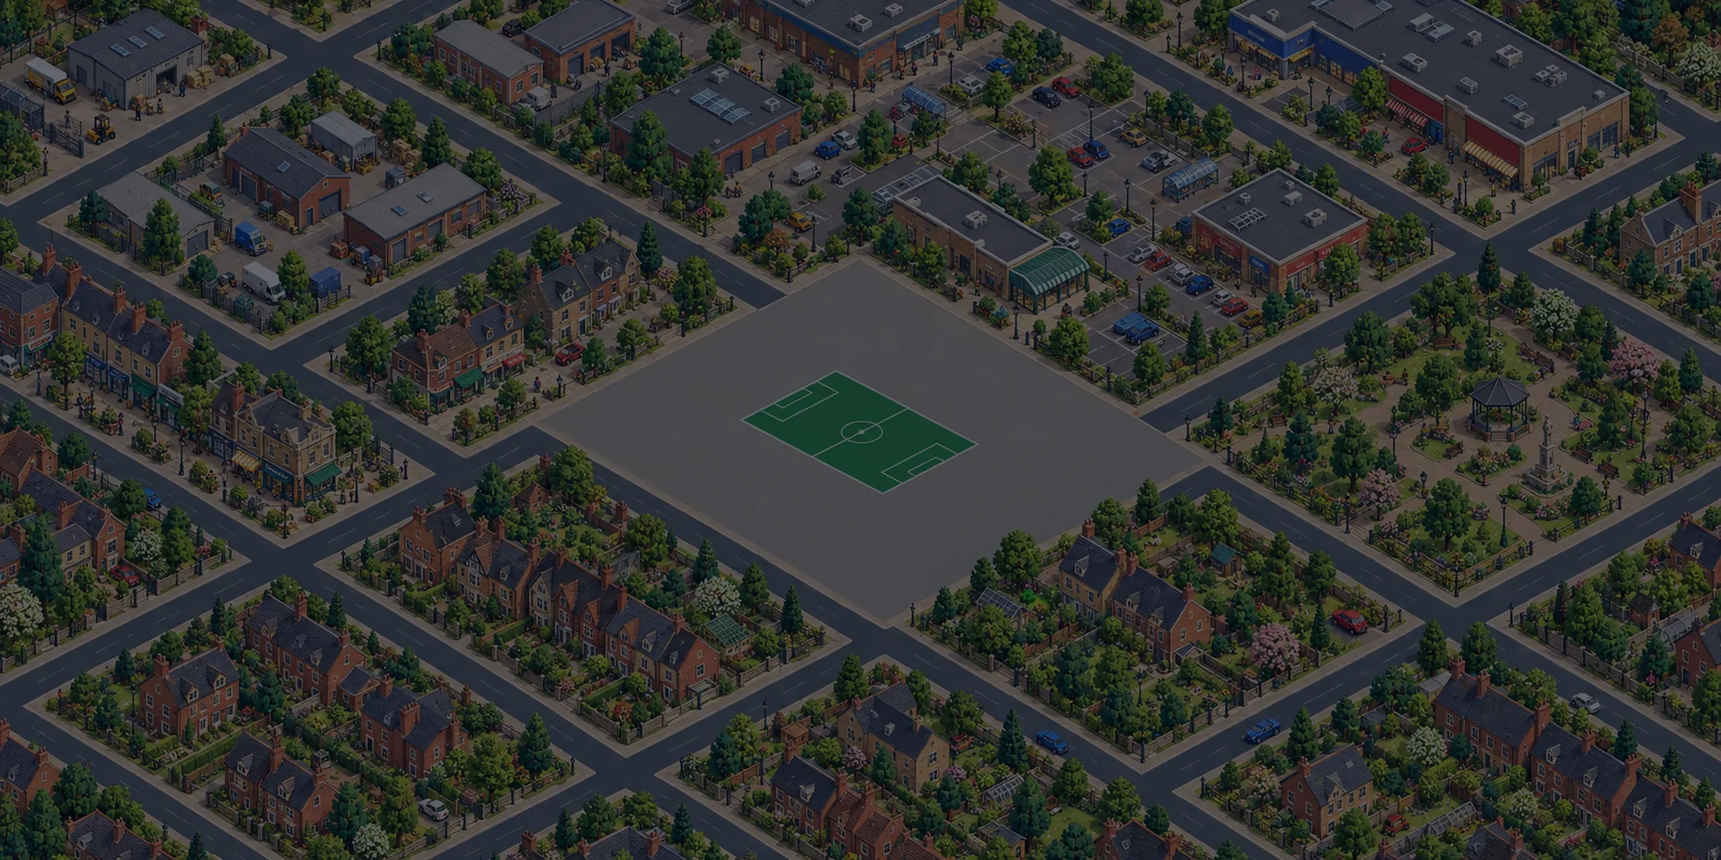
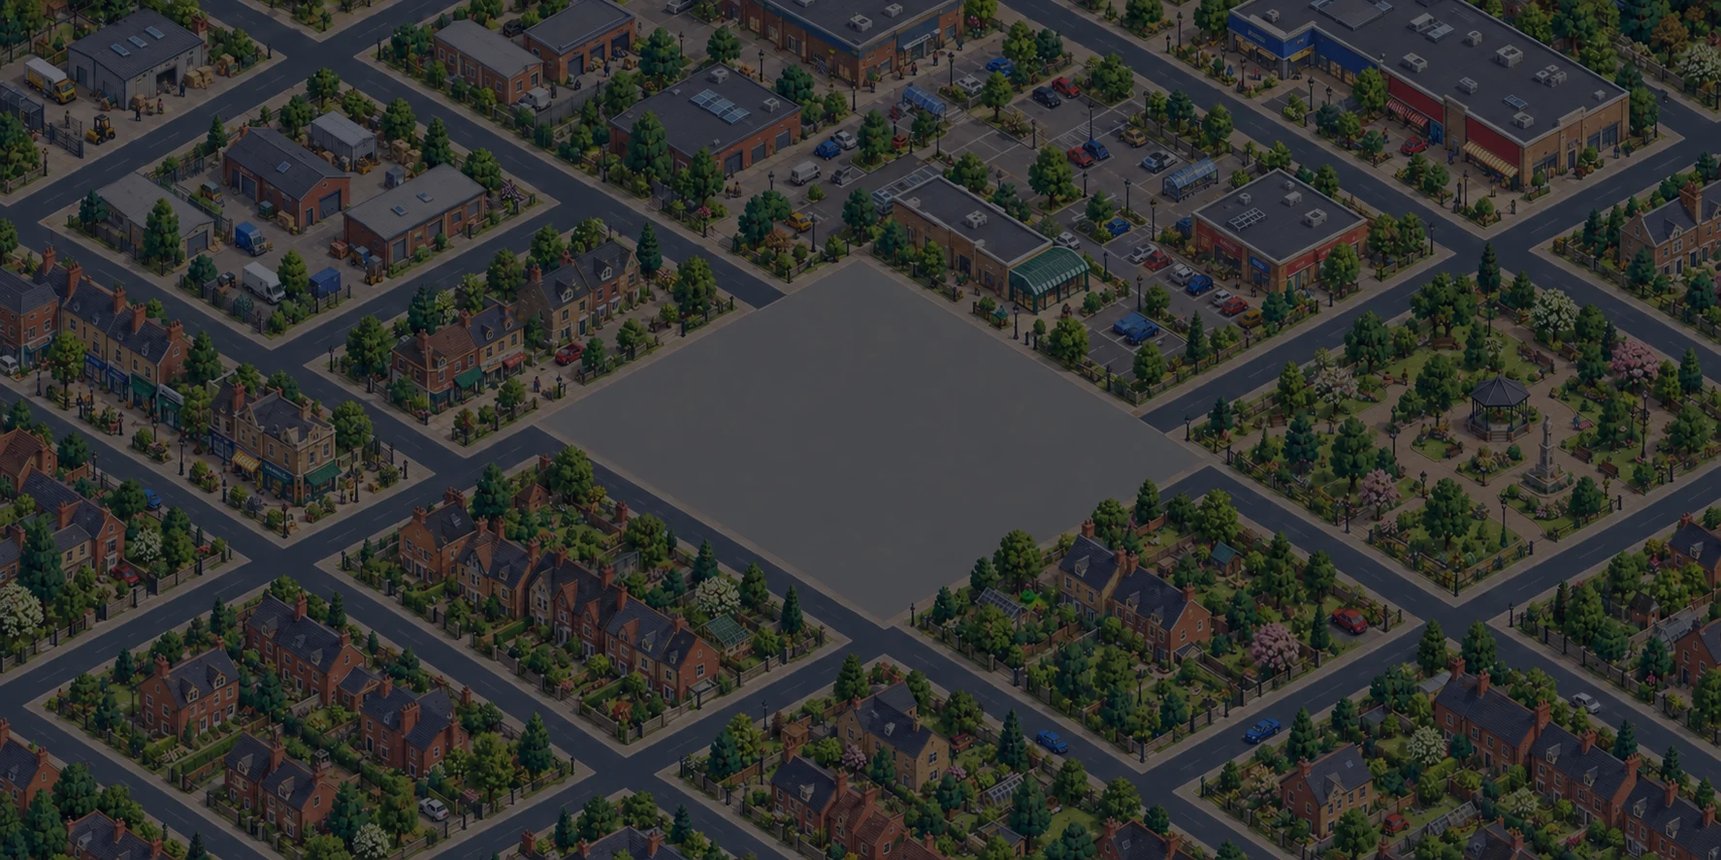
Add files via upload

diff --git a/index.html b/index.html
@@ -173,7 +173,7 @@ body.placement-open #positionPanToggle[aria-pressed=true]{background:#d7e9d6;col
 }
 @media(orientation:landscape) and (max-height:700px){body.designer-overlay .designer{left:auto;right:8px;bottom:8px;width:min(44vw,420px);max-height:calc(100dvh - 57px)}body.designer-overlay .designer-scene-actions{right:auto;width:52vw}}
 .career-card #ticketPrice{width:85px;max-width:100%;padding:8px;border:1px solid #b7d0bd;border-radius:7px}.career-build-preview{margin:4px 0 7px;padding:6px 9px;border:1px solid #d5e7d9;border-radius:8px;background:#e9f2e9;color:#184537;font-size:11px;line-height:1.35}.career-build-preview.warn{background:#f9e9df;color:#8d3528}.finance-spend{color:#f39082;font-weight:800}.finance-offer{color:#8ef0a4;font-weight:800}.career-top small#careerFinanceDelta{display:block}.career-action-hint{box-shadow:inset 0 0 0 2px #edbc54!important;color:#efce82!important}.care-row{display:flex;flex-wrap:wrap;gap:6px;align-items:center}.care-row button{min-height:37px;padding:5px 10px}.event-screen{position:fixed;inset:0;z-index:60;display:grid;place-items:center;padding:calc(10px + env(safe-area-inset-top)) 10px calc(10px + env(safe-area-inset-bottom));background:linear-gradient(#0a292cc7,#09251ddd);backdrop-filter:blur(4px);color:#f5f7ed}.event-screen[hidden]{display:none!important}.event-panel{width:min(850px,100%);max-height:100%;overflow:auto;padding:16px;border:1px solid #b4d5bb90;border-radius:16px;background:#123d38ee;box-shadow:0 15px 55px #081e1cbd}.event-panel h2{margin:3px 0 9px}.event-panel p{line-height:1.4}.event-kicker{letter-spacing:.12em;text-transform:uppercase;font-size:11px;color:#f1c679;font-weight:800}.event-grid{display:grid;grid-template-columns:repeat(2,minmax(0,1fr));gap:9px}.event-panel .event-card,.event-report .event-card{padding:11px;border:1px solid #d5eee069;border-radius:10px;background:#e8f0e7ec;color:#183d34}.event-panel .event-card h3,.event-report .event-card h3{margin:0 0 7px;font-size:15px}.event-panel .event-card p,.event-report .event-card p{margin:5px 0;font-size:12px}.event-panel button{min-height:39px;padding:6px 12px}.event-actions{display:flex;flex-wrap:wrap;gap:8px;margin:12px 0}.event-timeline{list-style:none;padding:0;margin:0;max-height:160px;overflow:auto}.event-timeline li{padding:5px 0;border-bottom:1px solid #b5c9b8;font-size:12px}.event-stock{display:grid;grid-template-columns:repeat(2,minmax(0,1fr));gap:4px 10px;font-size:12px}.event-table{width:100%;border-collapse:collapse;font-size:12px}.event-table th,.event-table td{text-align:left;padding:5px;border-bottom:1px solid #c4d7c9}.event-grade{font-size:30px;font-weight:850;color:#164f3d}.event-pulse{height:7px;border-radius:8px;background:#698f79;overflow:hidden;margin:10px 0}.event-pulse span{display:block;height:100%;background:#e5bb63}.event-muted{font-size:12px;color:#d0e2d5}.event-panel .live-score{background:#0c332f}.event-screen .career-action{background:#e8b85b;color:#143c32}@media(max-width:600px){.event-panel{padding:12px}.event-grid{grid-template-columns:1fr}.event-stock{grid-template-columns:repeat(2,minmax(0,1fr))}}@media(orientation:landscape) and (max-height:700px){.event-panel{width:min(1050px,100%);padding:11px}.event-grid{grid-template-columns:repeat(2,minmax(0,1fr))}.event-timeline{max-height:120px}}.live-score{display:flex;justify-content:space-between;gap:8px;align-items:center;padding:8px 10px;border-radius:9px;background:#183f37;color:#fff;font-weight:800;font-size:17px}.live-score strong{font-size:24px;white-space:nowrap}.live-progress{height:7px;border-radius:8px;background:#bad3bc;overflow:hidden;margin:8px 0}.live-progress span{display:block;height:100%;background:#e9bc71}.event-report{border-left:4px solid #d5ac60}.event-report .career-grid{grid-template-columns:repeat(2,minmax(0,1fr))}
-</style></head><body class="menu-open"><main class="app" inert><header><div class="brand"><small>PROTOTYPE 35.0</small><strong>GROUNDS</strong></div><label class="district-picker" for="districtSelect"><span>Setting</span><select id="districtSelect"><option value="starter-park-edge">Rural Village</option><option value="starter-housing-estate">1970s Town</option><option value="starter-industrial-rail">Railway Works</option><option value="mid-market-town-aligned">British City</option><option value="top-city-redevelopment">Modern Harbour</option></select></label><div class="header-actions"><button id="careerBackButton" hidden>▦ Career</button><button id="homeButton" aria-label="Return to start menu">⌂ Menu</button><button id="nightButton" aria-pressed="false">☾ Night</button><button id="designButton" class="primary" aria-pressed="false">✎ Designer</button></div></header><nav class="toolbar" aria-label="Scene controls"><div class="view-actions"><button id="isoButton" aria-pressed="true">Stadium</button><button id="topButton" aria-pressed="false">Plan</button><button id="settingsButton" aria-label="Display settings" aria-expanded="false">⚙</button></div><div class="zoom"><button id="zoomOut" aria-label="Zoom out">−</button><span id="zoomValue">100%</span><button id="zoomIn" aria-label="Zoom in">+</button><button id="fitButton">Fit</button></div></nav><div class="event-bar" id="eventBar"><label>Scene <select id="eventScene"><option value="regular">Regular</option><option value="pre">Pre-event</option><option value="football">Football</option><option value="concert">Concert · Carly XOX</option></select></label><label id="crowdControl">Crowd <select id="crowdLevel"><option value="small">Small · 25%</option><option value="medium">Medium · 66%</option><option value="sellout">Sellout · 100%</option></select></label><span id="eventStatus">Quiet neighbourhood</span></div><div class="capacity-bar" aria-live="polite"><strong id="capacityTotal"></strong><span id="capacityDetail"></span></div><div class="stage" id="canvasFrame"><div id="careerWeatherBadge" class="career-weather-badge" hidden></div><canvas id="gameCanvas" tabindex="0" aria-label="Stadium view. Enter Designer to edit sections."></canvas><div class="designer-scene-actions"><button id="designerCareer" hidden>▦ Career</button><button id="designerNight">☾ Night</button><button id="designerFit">Fit</button><button id="designerDone">✓ Done</button></div><div id="sceneHint">Drag to look around · Open Designer to shape your ground</div></div>
+</style></head><body class="menu-open"><main class="app" inert><header><div class="brand"><small>PROTOTYPE 35.1</small><strong>GROUNDS</strong></div><label class="district-picker" for="districtSelect"><span>Setting</span><select id="districtSelect"><option value="starter-park-edge">Rural Village</option><option value="starter-housing-estate">1970s Town</option><option value="starter-industrial-rail">Railway Works</option><option value="mid-market-town-aligned">British City</option><option value="top-city-redevelopment">Modern Harbour</option></select></label><div class="header-actions"><button id="careerBackButton" hidden>▦ Career</button><button id="homeButton" aria-label="Return to start menu">⌂ Menu</button><button id="nightButton" aria-pressed="false">☾ Night</button><button id="designButton" class="primary" aria-pressed="false">✎ Designer</button></div></header><nav class="toolbar" aria-label="Scene controls"><div class="view-actions"><button id="isoButton" aria-pressed="true">Stadium</button><button id="topButton" aria-pressed="false">Plan</button><button id="settingsButton" aria-label="Display settings" aria-expanded="false">⚙</button></div><div class="zoom"><button id="zoomOut" aria-label="Zoom out">−</button><span id="zoomValue">100%</span><button id="zoomIn" aria-label="Zoom in">+</button><button id="fitButton">Fit</button></div></nav><div class="event-bar" id="eventBar"><label>Scene <select id="eventScene"><option value="regular">Regular</option><option value="pre">Pre-event</option><option value="football">Football</option><option value="concert">Concert · Carly XOX</option></select></label><label id="crowdControl">Crowd <select id="crowdLevel"><option value="small">Small · 25%</option><option value="medium">Medium · 66%</option><option value="sellout">Sellout · 100%</option></select></label><span id="eventStatus">Quiet neighbourhood</span></div><div class="capacity-bar" aria-live="polite"><strong id="capacityTotal"></strong><span id="capacityDetail"></span></div><div class="stage" id="canvasFrame"><div id="careerWeatherBadge" class="career-weather-badge" hidden></div><canvas id="gameCanvas" tabindex="0" aria-label="Stadium view. Enter Designer to edit sections."></canvas><div class="designer-scene-actions"><button id="designerCareer" hidden>▦ Career</button><button id="designerNight">☾ Night</button><button id="designerFit">Fit</button><button id="designerDone">✓ Done</button></div><div id="sceneHint">Drag to look around · Open Designer to shape your ground</div></div>
 <section class="designer" id="designerPanel" aria-label="Stadium designer" hidden><div class="designer-inner"><div class="mode-tabs" role="group" aria-label="Designer mode"><button data-mode="stands" aria-pressed="true">Stands</button><button data-mode="grounds" aria-pressed="false">Outside</button><button data-mode="boards" aria-pressed="false">Sponsors</button><button data-mode="position" aria-pressed="false">Position</button></div><div id="conflictPanel" class="conflicts" hidden><div id="conflictText"></div><button id="moveConflicts">Move items</button><button id="removeConflicts">Remove conflicting items</button><button id="returnStands">Back to stands</button></div><div class="history-controls"><button id="undoButton">↶ Undo</button><button id="redoButton">↷ Redo</button><button id="rotateStadium">↻ Rotate 90°</button></div><div id="positionControls" hidden><div id="positionStatus" role="status"></div><div class="position-pad"><button id="moveNorth" aria-label="Move north one square">↗</button><button id="moveWest" aria-label="Move west one square">↖</button><button id="moveSouth" aria-label="Move south one square">↙</button><button id="moveEast" aria-label="Move east one square">↘</button></div><div class="position-tools"><button id="positionPanToggle" aria-pressed="false" title="Pan view">✥ Pan</button><button id="positionZoomOut" aria-label="Zoom out">−</button><button id="positionZoomIn" aria-label="Zoom in">+</button><button id="positionFit" title="Centre view">Fit</button><button id="positionRotate" title="Rotate stadium 90 degrees">↻ Rotate</button><button id="placementMenu" hidden title="Return to main menu">⌂</button></div><div class="position-actions"><button id="positionConfirm" class="primary">✓ Confirm</button><button id="positionCancel">✕ Cancel</button></div><div id="positionNotice">Move or rotate the preview, then Confirm. Each step is one grid square.</div></div><div id="standControls"><div id="careerBuildPreview" class="career-build-preview" hidden></div><div class="selection-bar"><strong id="selectionTitle">Tap a stand or corner</strong><span class="selection-hint">Tap again to deselect</span></div><div class="control-grid"><button class="category-up" id="categoryUp" aria-label="Previous category">▲</button><button id="previous" aria-label="Previous option">◀</button><div class="option-readout" aria-live="polite"><span id="categoryLabel">Seating & tiers</span><strong id="optionLabel">Choose a section</strong><span id="optionCount">Preview before confirming</span></div><button id="next" aria-label="Next option">▶</button><button class="category-down" id="categoryDown" aria-label="Next category">▼</button><div class="commit"><button class="primary" id="confirmButton" aria-label="Confirm changes">✓<small>Confirm</small></button><button class="cancel" id="cancelButton" aria-label="Cancel changes">✕<small>Cancel</small></button></div></div><div id="previewState">Left / right: options · Up / down: category</div><details id="sectionDetails"><summary>Select sections by name</summary><div class="selection-tools"><button data-select="N">North</button><button data-select="S">South</button><button data-select="W">West</button><button data-select="E">East</button><button data-select="CORNERS">Corners</button><button data-select="ALL">All</button><button data-select="CLEAR">Clear</button></div><div id="sectionPicker" class="section-grid"></div></details><div class="status-row"><span>Seating → rear building → roof → colours</span><span id="saveStatus">Saved on this device</span></div></div><div id="groundsControls" class="extra-controls" hidden><div class="extra-row"><button id="decorPrevious" aria-label="Previous decoration">◀</button><strong id="decorLabel"></strong><button id="decorNext" aria-label="Next decoration">▶</button></div><div id="decorStatus" class="extra-status" aria-live="polite"></div><div class="extra-row"><button id="decorRotate">Rotate</button><button id="decorMove">Move</button><button id="decorRemove">Remove</button></div><div class="extra-row"><button id="decorConfirm" class="primary">✓ Confirm</button><button id="decorCancel">✕ Cancel</button></div></div><div id="boardControls" class="extra-controls" hidden><div class="extra-row"><button id="boardPrevious" aria-label="Previous sponsor set">◀</button><strong id="boardLabel"></strong><button id="boardNext" aria-label="Next sponsor set">▶</button></div><p class="extra-status">Fictional sponsors · boards leave both goals clear</p><div class="extra-row"><button id="boardConfirm" class="primary">✓ Confirm</button><button id="boardCancel">✕ Cancel</button></div></div></div></section></main>
 <aside class="settings" id="settingsPanel" hidden><h2>Display & design</h2><label><input type="checkbox" id="waterMotion">Gentle water motion</label><label><input type="checkbox" id="ambient">Town activity</label><label><input type="checkbox" id="flyovers">Occasional flyovers</label><label><input type="checkbox" id="eventMotion">Event animation</label><label><input type="checkbox" id="lowAngle">Flatter 3:1 camera</label><label><input type="checkbox" id="showLabels">Section labels</label><label><input type="checkbox" id="showGrid">Site grid</label><label><input type="checkbox" id="showEnvironment" checked>Town backdrop</label><p>Changes save after ✓ Confirm. Display options do not change your stadium.</p><div class="row"><button id="saveButton">Save now</button><button id="resetButton">Reset ground</button><button id="closeSettings">Close</button></div></aside><div id="toast" class="toast" role="status" hidden></div><div id="startMenu" class="start-menu" role="dialog" aria-modal="true" aria-labelledby="menuTitle">
   <div class="menu-shade"></div><div class="menu-vignette"></div>
@@ -327,24 +327,25 @@ body.placement-open #positionPanToggle[aria-pressed=true]{background:#d7e9d6;col
   const ui={zoomValue:$("zoomValue"),saveStatus:$("saveStatus")};
   const categories=["stand","rear","roof","coverage","seats","exterior"];
   const categoryNames={stand:"Seating & tiers",rear:"Rear building",roof:"Roof structure",coverage:"Roof coverage",seats:"Seat colour",exterior:"Exterior finish"};
-  // v35 sites share one explicit isometric road graph. Art is registered at
-  // 1774×887; the pitch and all routes use the same centred projection.
+  // Each illustration has its own verified asphalt route in image pixels.
+  // The generated street layouts differ, so a tier-wide grid can cross plots.
   const STORAGE_SITE_ORIGIN=[887,443];
-  const GRID_PIXEL=(x,y)=>[887+(x-y)*3.8,443+(x+y)*1.9];
   const REGISTRATION={width:1774,height:887,origin:STORAGE_SITE_ORIGIN,tile:[6,3],worldAnchor:[36,30]};
   const SITE_SPECS={
     low:{site:{minX:15,maxX:57,minY:14,maxY:46},people:18},
     mid:{site:{minX:6,maxX:66,minY:6,maxY:54},people:26},
     top:{site:{minX:-2,maxX:74,minY:0,maxY:60},people:34}
   };
-  const SIDE_EDGES={
-    low:[ [[-35,-28],[35,-28]],[[35,-28],[35,28]],[[35,28],[-35,28]],[[-35,28],[-35,-28]] ],
-    mid:[ [[-64,-51],[64,-51]],[[64,-51],[64,51]],[[64,51],[-64,51]],[[-64,51],[-64,-51]] ],
-    top:[ [[-64,-51],[64,-51]],[[64,-51],[64,51]],[[64,51],[-64,51]] ]
+  const SITE_ROUTES={
+    'starter-park-edge':{side:1,edges:[[[634,439],[854,549]]]},
+    'starter-housing-estate':{side:1,edges:[[[662,459],[902,579]]]},
+    'starter-industrial-rail':{side:1,edges:[[[702,464],[922,574]]]},
+    'mid-market-town-aligned':{side:1,edges:[[[919,668],[1154,785]]]},
+    'top-city-redevelopment':{side:-1,edges:[[[828,247],[1068,367]]]}
   };
-  function makeRouteGraph(tier){
+  function makeRouteGraph(id){
     const nodes=new Map(),edges=[];
-    const raw=SIDE_EDGES[tier],endpoints=raw.flatMap(([a,b])=>[a,b]);
+    const raw=SITE_ROUTES[id].edges,endpoints=raw.flatMap(([a,b])=>[a,b]);
     const split=[];
     for(const [a,b] of raw){
       const hits=endpoints.filter(p=>(b[0]-a[0])*(p[1]-a[1])===(b[1]-a[1])*(p[0]-a[0])&&
@@ -355,20 +356,20 @@ body.placement-open #positionPanToggle[aria-pressed=true]{background:#d7e9d6;col
     }
     for(const [a,b] of split){
       const ak=a.join(','),bk=b.join(',');
-      if(!nodes.has(ak))nodes.set(ak,{id:ak,world:a,point:GRID_PIXEL(...a),links:[]});
-      if(!nodes.has(bk))nodes.set(bk,{id:bk,world:b,point:GRID_PIXEL(...b),links:[]});
+      if(!nodes.has(ak))nodes.set(ak,{id:ak,point:a,links:[]});
+      if(!nodes.has(bk))nodes.set(bk,{id:bk,point:b,links:[]});
       const edge={id:edges.length,a:ak,b:bk};edges.push(edge);
       nodes.get(ak).links.push(edge.id);nodes.get(bk).links.push(edge.id);
     }
     return {nodes,edges};
   }
-  const ROUTE_GRAPHS=Object.fromEntries(['low','mid','top'].map(t=>[t,makeRouteGraph(t)]));
+  const ROUTE_GRAPHS=Object.fromEntries(Object.keys(SITE_ROUTES).map(id=>[id,makeRouteGraph(id)]));
   function newSite(id,name,tier){
     const spec=SITE_SPECS[tier];
     return {id,name,tier,registration:REGISTRATION,site:spec.site,
       placement:{...spec.site,accessRows:[spec.site.minY,spec.site.maxY-2]},
       art:{day:`assets/career-sites/${id}-day.webp`,night:`assets/career-sites/${id}-night.webp`},
-      graph:ROUTE_GRAPHS[tier],traffic:{junctionWait:.6},pedestrianSpeed:.52,
+      graph:ROUTE_GRAPHS[id],traffic:{junctionWait:.6},pedestrianSpeed:.52,
       walkers:Array.from({length:spec.people},(_,i)=>({phase:(i*.61803398875+.13)%1,speedFactor:.85+(i%7)*.05})),
       parking:{kind:'authored-bays',cars:[],coaches:[],carDirection:[0,-1],coachDirection:[0,-1]},
       pubGroup:[],hospitality:{a:[280,341],b:[360,301],count:16},
@@ -1704,15 +1705,13 @@ function drawSteppedAisle(section,u,spec){
   let ambientTime=0,flyoverTime=0,lastAnimationTime=null,animationRequest=0;
   function imageWorld(p){const r=DISTRICT.registration,a=(p[0]-r.origin[0])/r.tile[0],b=(p[1]-r.origin[1])/r.tile[1];return{x:r.worldAnchor[0]+(a+b)/2,y:r.worldAnchor[1]+(b-a)/2,z:0};}
   function worldDistance(a,b){return Math.hypot(b.x-a.x,b.y-a.y);}
-  // v35 graph movement: actors are always on a declared road edge. Pedestrians
-  // follow that same edge with a pavement offset. At nodes they choose a linked
-  // edge; no arbitrary point-to-point shortcuts cross plots or harbour water.
+  // Actors stay on the active illustration's authored route and adjacent pavement.
   function graphActor(index,pedestrian=false){
     const g=DISTRICT.graph,edges=g.edges;
     const edge=edges[(index*3+(pedestrian?1:0))%edges.length];
     return {id:(pedestrian?'walker-':'vehicle-')+index,edge:edge.id,
       from:index%2?edge.b:edge.a,to:index%2?edge.a:edge.b,
-      progress:(index*.173)%1,side:index%2?1:-1,
+      progress:(index*.173)%1,side:pedestrian?SITE_ROUTES[DISTRICT.id].side:(index%2?1:-1),
       speed:pedestrian?12+(index%4)*2:66+(index%3)*7,
       kind:pedestrian?'person':index===3&&DISTRICT.tier!=='low'?'bus':'car',
       colour:pedestrian?['#de7155','#507fae','#996ca9','#d2a351','#65a091'][index%5]:['#4e98cf','#e9bd53','#d37d60','#397eb0'][index%4],
@@ -1746,9 +1745,11 @@ function drawSteppedAisle(section,u,spec){
   function graphPose(actor){
     const g=DISTRICT.graph,a=g.nodes.get(actor.from).point,b=g.nodes.get(actor.to).point;
     const dx=b[0]-a[0],dy=b[1]-a[1],length=Math.hypot(dx,dy)||1;
+    const edge=g.edges[actor.edge],canonical=g.nodes.get(edge.a).point,next=g.nodes.get(edge.b).point;
+    const ox=next[0]-canonical[0],oy=next[1]-canonical[1],ol=Math.hypot(ox,oy)||1;
     const offset=actor.pedestrian?actor.side*16.5:actor.side*5;
-    const pixel=[a[0]+dx*actor.progress-dy/length*offset,
-      a[1]+dy*actor.progress+dx/length*offset];
+    const pixel=[a[0]+dx*actor.progress-oy/ol*offset,
+      a[1]+dy*actor.progress+ox/ol*offset];
     const world=imageWorld(pixel),ahead=imageWorld([pixel[0]+dx/length*3,pixel[1]+dy/length*3]);
     const magnitude=worldDistance(world,ahead)||1;
     return {...world,dx:(ahead.x-world.x)/magnitude,dy:(ahead.y-world.y)/magnitude,
@@ -1963,8 +1964,9 @@ function drawSteppedAisle(section,u,spec){
     if(activeScene()!=='pre')return [];
     const g=DISTRICT.graph,e=g.edges[0],a=g.nodes.get(e.a).point,b=g.nodes.get(e.b).point,n=DISTRICT.hospitality.count;
     const dx=b[0]-a[0],dy=b[1]-a[1],length=Math.hypot(dx,dy)||1;
+    const side=SITE_ROUTES[DISTRICT.id].side;
     return Array.from({length:n},(_,i)=>{const f=(i+.3+hashNumber(i+88)*.4)/n;
-      return {...imageWorld([a[0]+dx*f-dy/length*16.5,a[1]+dy*f+dx/length*16.5]),kind:'person',layer:'back',colour:['#b86d56','#517baa','#d6b558','#769664'][i%4],phase:0,moving:false};});
+      return {...imageWorld([a[0]+dx*f-dy/length*16.5*side,a[1]+dy*f+dx/length*16.5*side]),kind:'person',layer:'back',colour:['#b86d56','#517baa','#d6b558','#769664'][i%4],phase:0,moving:false};});
   }
   function eventPersonPose(o,t){
     const length=Math.hypot(o.end.x-o.x,o.end.y-o.y);if(length<.01)return {...o,phase:0,moving:false};

diff --git a/sw.js b/sw.js
@@ -1,4 +1,4 @@
-const CACHE='grounds-pwa-v35-0';
+const CACHE='grounds-pwa-v35-1';
 const CORE=['./','./index.html','./manifest.webmanifest','./icon-192.png','./icon-512.png','./icon-maskable-512.png'];
 self.addEventListener('install',event=>{
   event.waitUntil(caches.open(CACHE).then(cache=>cache.addAll(CORE)).then(()=>self.skipWaiting()));

diff --git a/README.md b/README.md
@@ -1,17 +1,9 @@
-# GROUNDS v35.0 — Five grid locations
+# GROUNDS v35.1 — Map and route correction
 
-Upload the ZIP contents to the root of `zanderiii88/grounds`, retaining the `assets/career-sites/` paths. The `archive/` folder is a local copy of v34.9's old site and movement source and is not needed by the running page.
+Upload the ZIP contents to the root of `zanderiii88/grounds`, retaining the `assets/career-sites/` paths. Replace existing files with matching names. The old files left on GitHub are not referenced by this build; you do not need to delete them.
 
-## Sites
+The five active sites are Rural Village, 1970s Town, Railway Works, British City and Modern Harbour. Their day and night artwork has an empty central placement plot, with no baked-in pitch, fixed stands or fence.
 
-- Low tier: Rural Village, 1970s Town, Railway Works
-- Mid tier: British City
-- Top tier: Modern Harbour
+Ambient cars now use a short route explicitly checked on each site's painted asphalt. Pedestrians use the adjacent pavement. Routes no longer inherit a tier-wide ring that could cross removed roads, plots or harbour areas. Movement is intentionally limited to these verified streets until a fuller map-by-map network is authored.
 
-All five appear in Sandbox. Division 3 starts at a low site; Divisions 2 and 1 use British City; the top divisions use Modern Harbour. Each has a day image and a darker night variant.
-
-Traffic and pavement walkers now use one explicit isometric road graph per tier. Actors traverse connected edges and choose the next edge at a junction. They no longer use the old independent straight-line waypoint lists. Movement is limited to the site access roads beside the stadium in this release; outlying decorative streets have no moving actors yet. The harbour's water is never included in the route graph.
-
-This is a fresh start using `grounds-career-v2` and `stadium-workshop-layered-v35`. The earlier `grounds-career-v1` and `stadium-workshop-layered-v27` browser data is left untouched and is not read by this build. Installing the build does not delete it.
-
-The detailed site illustrations were generated from the approved concepts. Their road edges should be reviewed on a phone against the mathematically defined movement graph; small visual offsets in the painted art may remain. The archived v34.9 ZIP is included for rollback.
+This update keeps the v35 browser save keys `grounds-career-v2` and `stadium-workshop-layered-v35`, so a save started in v35 remains available. The earlier `grounds-career-v1` and `stadium-workshop-layered-v27` data is untouched. The `archive/` folder contains the older site source for reference and is not loaded by the game.
